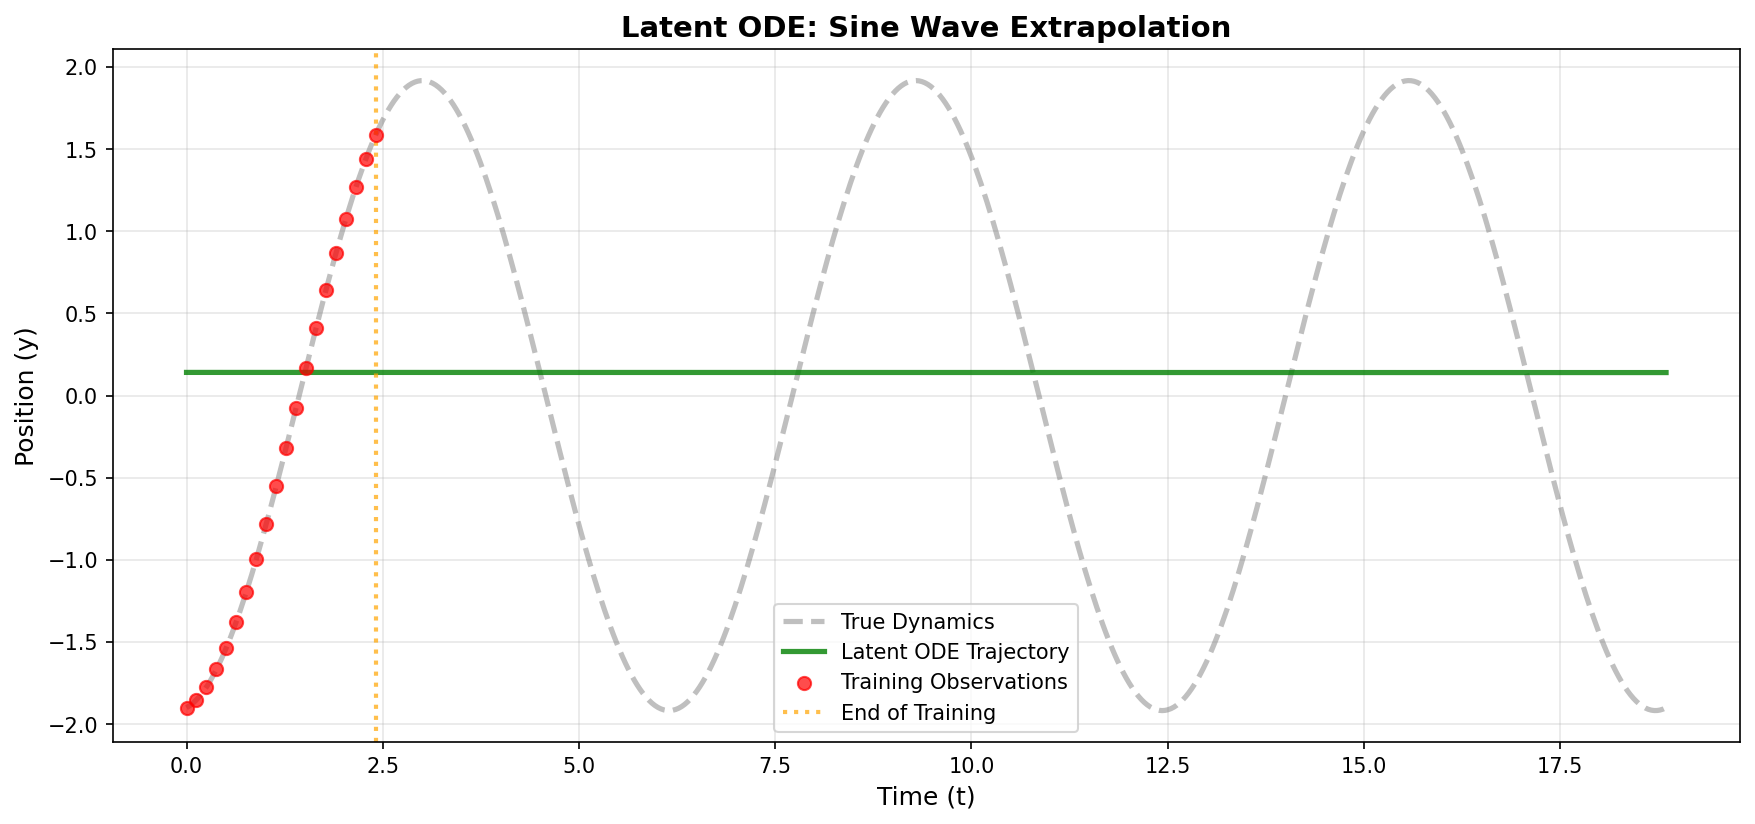
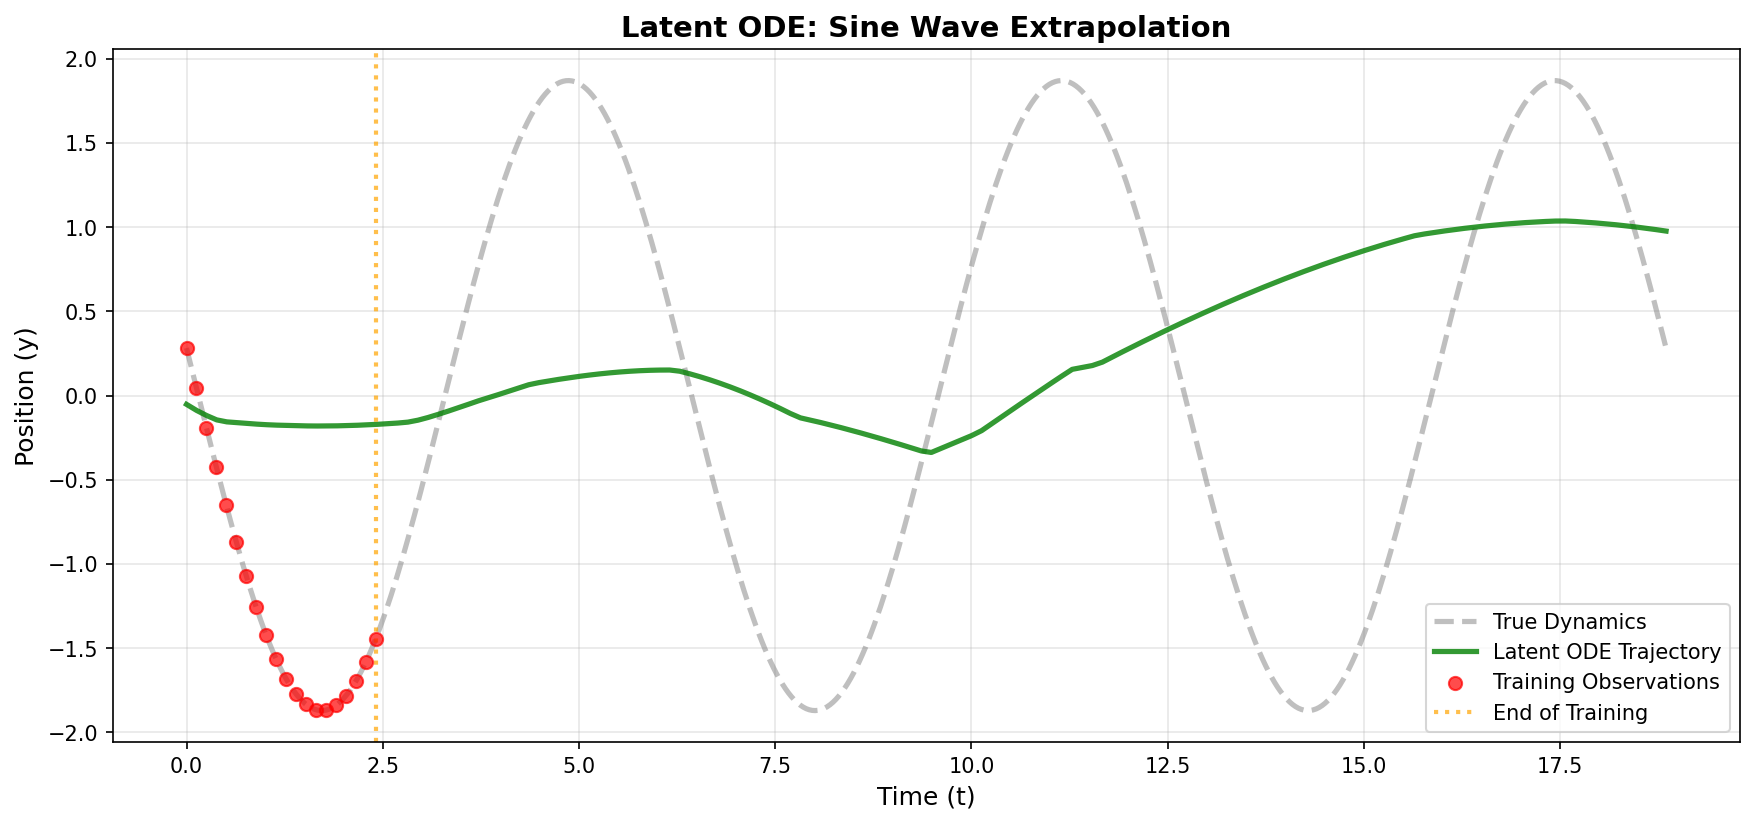
Generate spiral (cw + ccw)
Added the spiral generation from the Neural ODE paper and added inspection of latent state

diff --git a/dataset/data.py b/dataset/data.py
@@ -30,43 +30,20 @@ def generate_sine(true_func, batch_size=32, n_samples=100, t_max=4*np.pi, device
 
     return t, y0, trajectories
 
-def generate_irregular(true_func, n_samples=100, t_max=4*np.pi, noise_std=0.1, device="cpu"):
-    t = np.sort(np.random.rand(n_samples) * t_max)
-    t[0] = 0
-    t_tensor = torch.tensor(t, dtype=torch.float32).to(device)
-
-    #initial condition 
-
-    # Calculate position and velocity
-    y = np.sin(t)
-    v = np.cos(t)  # velocity = dy/dt
-
-    # Add noise to make it more "real"
-    y_noise = y + 0.1 * np.random.randn(n_samples)
-    v_noise = v + 0.1 * np.random.randn(n_samples)
-
-    # Stack into state: [position, velocity]
-    state = np.stack([y_noise, v_noise], axis=1)  # Shape: [n_samples, 2]
-
-    # Convert to tensors
-    t_tensor = torch.tensor(t).float()
-    state_tensor = torch.tensor(state).float()  # Shape: [n_samples, 2]
-
-    return t_tensor, state_tensor
-
 #True sprial dynamics
 class SpiralDynamics(nn.Module):
-    def __init__(self, device="cpu"):
+    def __init__(self, direction=1.0, device="cpu"):
         super(SpiralDynamics, self).__init__()
 
         #weight matrix for spiral
-        self.A = torch.tensor([[-0.1, -1.0], 
-                               [1.0, -0.1]], dtype=torch.float32, device=device)
+        self.A = torch.tensor([[-0.1, direction*-1.0], 
+                               [direction*1.0, -0.1]], dtype=torch.float32, device=device)
         
     def forward(self, t, y):
         return torch.mm(y, self.A.T)
 
-def generate_spiral(true_func, batch_size=32, n_samples=100, t_max=10, device="cpu"):
+def generate_spiral(batch_size=32, n_samples=100, t_max=10, noise_std=0.0, device="cpu"):
+    halb_batch = batch_size // 2
     #time
     t = torch.linspace(0, t_max, n_samples).to(device)
     
@@ -80,10 +57,37 @@ def generate_spiral(true_func, batch_size=32, n_samples=100, t_max=10, device="c
     
     #Solve ODE with true dynamics
     with torch.no_grad():
-        true_trajectories = odeint(true_func, y0, t, method='dopri5')
+        #Clockwise
+        true_func_cw = SpiralDynamics(direction=1.0, device=device)
+        y0_cw = y0[:halb_batch]
+        traj_cw = odeint(true_func_cw, y0_cw, t, method="dopri5")
         #Shape: [n_points, batch_size, 2]
-    
+
+        #Counter Clockwise
+        true_func_ccw = SpiralDynamics(direction=-1.0, device=device)
+        y0_ccw = y0[halb_batch:]
+        traj_ccw = odeint(true_func_ccw, y0_ccw, t, method="dopri5")
+
+        #Combine
+        true_trajectories = torch.cat([traj_cw, traj_ccw], dim=1)
+
+    #Add noise
+    if noise_std > 0:
+        true_trajectories += noise_std * torch.randn_like(true_trajectories)
+
     return t, y0, true_trajectories
+
+def generate_irregular(subsample_points, trajectories, n_samples, t, batch_size, device):
+    t = torch.zeros(subsample_points, dtype=torch.float32, device=device)
+    subsampled_traj = torch.zeros(subsample_points, batch_size, 2, dtype=torch.float32, device=device)
+    
+    for b in range(batch_size):
+        #random indicies, sort by time
+        idx = torch.randperm(n_samples)[:subsample_points].sort()[0]
+        subsampled_traj[:, b, :] = trajectories[idx, b, :]
+        t = t[idx]
+
+    return t, subsampled_traj 
 
 
 def plot_samples(t, y0, trajectories, title="True Sine Wave Dynamics", file_name="true_sine.png"):
@@ -197,6 +201,9 @@ if __name__ == '__main__':
     # t, y0, true_traj = generate_spiral(true_func, batch_size=8, n_samples=100)
     # plot_spiral(t, y0, true_traj, title="True Spiral Dynamics", file_name="true_spirals.png")
 
-    true_func = SineDynamics()
-    t, y0, true_traj = generate_sine(true_func, batch_size=16, n_samples=100)
-    plot_spiral(t, y0, true_traj, title="Sine Phase Space", file_name="true_sine_phase.png")
+    # true_func = SineDynamics()
+    # t, y0, true_traj = generate_sine(true_func, batch_size=16, n_samples=100)
+    # plot_spiral(t, y0, true_traj, title="Sine Phase Space", file_name="true_sine_phase.png")
+
+    t, y0, true_traj = generate_spiral(batch_size=4, n_samples=100, t_max=4*np.pi)
+    plot_spiral(t, y0, true_traj, title="Spiral Dynamics (CW + CCW)", file_name="true_spirals (cw + ccw).png")

diff --git a/extended_plots.py b/extended_plots.py
@@ -7,6 +7,7 @@ import torch
 import matplotlib.pyplot as plt
 import os
 import argparse
+import numpy as np
 
 def parse_args():
     parser = argparse.ArgumentParser("Ode Model Plotting")
@@ -80,6 +81,44 @@ def generate_sines(ode_model, future_vals, t, single_true, device, true_func, ls
 
     return
 
+@torch.no_grad()
+def inspect_encoder_latents(model, observed_data, observed_times, 
+                           n_samples=8, return_df=False, device=None):
+    if device is None:
+        device = next(model.parameters()).device
+    
+    model.eval()
+    observed_data = observed_data.to(device)
+    observed_times = observed_times.to(device)
+    
+    if observed_data.dim() == 2:
+        observed_data = observed_data.unsqueeze(0)   # add batch dim if needed
+    
+    batch_size = observed_data.shape[0]
+    idx = np.random.choice(batch_size, size=min(n_samples, batch_size), replace=False)
+    
+    print(f"\nInspecting encoder outputs for {len(idx)} random trajectories:\n")
+    print("   idx   |  z₀ mean                  |  z₀ std                   | sample z₀")
+    print("-" * 85)
+    
+    rows = []
+    
+    for i, sample_idx in enumerate(idx):
+        x = observed_data[sample_idx:sample_idx+1]      # [1, T, obs_dim]
+        t = observed_times                               # [T] or [1,T]
+        
+        z0_mean, z0_logvar = model.encode(x, t)
+        z0_std = torch.exp(0.5 * z0_logvar)
+        
+        # one sample from posterior
+        z0_sample = model.reparametrize(z0_mean, z0_logvar)
+        
+        mean_str = " ".join(f"{v:.4f}" for v in z0_mean[0].cpu().numpy())
+        std_str  = " ".join(f"{v:.4f}" for v in z0_std[0].cpu().numpy())
+        samp_str = " ".join(f"{v:.4f}" for v in z0_sample[0].cpu().numpy())
+        
+        print(f"{sample_idx:6d}   | {mean_str} | {std_str} | {samp_str}")
+
 
 if __name__ == '__main__':
     args = parse_args()
@@ -110,7 +149,9 @@ if __name__ == '__main__':
     lstm.load_state_dict(lstm_weights)
 
     #Load Latent ODE
-    latent_ode = LatentODE(latent_dim=2, obs_dim=2, encoder_hidden=25, ode_hidden=20, decoder_hidden=20).to(device)
+    latent_ode = LatentODE(latent_dim=1, obs_dim=2, encoder_hidden=25, ode_hidden=64, decoder_hidden=25).to(device)
+    latent_ode_weights = torch.load(".\\Results\\latent_ode (kl_weight-0.05_latent-1).pth", weights_only=True)
+    latent_ode.load_state_dict(latent_ode_weights)
 
     if args.sine:
         #single values
@@ -168,8 +209,21 @@ if __name__ == '__main__':
             predicted_full=predicted_full[:, 0, :],  # Extract first batch
             true_func=true_func,
             t_max=6*torch.pi,
-            file_name="latent_ode_extrapolation.png",
+            file_name="latent_ode_extrapolation (kl_weight-0.05_latent-1).png",
             device=device)
+
+        latent_ode.eval()
+        with torch.no_grad():
+            traj_batch = true_traj.permute(1, 0, 2)
+            predicted, _, _ = latent_ode(traj_batch, t, t)
+            
+            # Check reconstruction error
+            recon_error = torch.mean((predicted - true_traj) ** 2)
+            print(f"Reconstruction error: {recon_error.item():.6f}")
+
+        traj_batch = true_traj.permute(1, 0, 2)
+
+        inspect_encoder_latents(latent_ode, traj_batch, t, n_samples=10)
 
        
 

diff --git a/models/latent_ode.py b/models/latent_ode.py
@@ -5,6 +5,7 @@ import matplotlib.pyplot as plt
 from torchdiffeq import odeint_adjoint as odeint
 import os
 from models.neural_ode import ODEFunc
+from dataset.data import SpiralDynamics, generate_spiral
 
 #Encoder
 #This is a backwards RNN - it process the observations in reverse order to product an initial
@@ -160,7 +161,7 @@ def train_latent_ode(model, trajs, t, epochs=200, lr=0.001, kl_weight_start=0, k
 
         #backward pass
         total_loss.backward()
-        torch.nn.utils.clip_grad_norm_(model.parameters(), max_norm=1.0)
+        #torch.nn.utils.clip_grad_norm_(model.parameters(), max_norm=1.0)
         optimizer.step()
 
         #Record losses 
@@ -291,13 +292,11 @@ def plot_latent_ode_extrapolation(t_train, state_train, t_full, predicted_full, 
 
 
 if __name__ == "__main__":
-    from dataset.data import SineDynamics, generate_sine
-
     device = torch.device("cuda" if torch.cuda.is_available() else "cpu")
 
     #Generate data
-    true_func = SineDynamics(device=device).to(device)
-    t, y0, trajs = generate_sine(true_func, batch_size=16, n_samples=100, t_max=4*torch.pi, device=device)
+    true_func = SpiralDynamics(device=device).to(device)
+    t, y0, trajs = generate_spiral(batch_size=16, n_samples=100, t_max=4*torch.pi, device=device)
     t = t.to(device)
     y0 = y0.to(device)
     trajs = trajs.to(device)
@@ -307,12 +306,12 @@ if __name__ == "__main__":
                       obs_dim=2, 
                       encoder_hidden=25, 
                       ode_hidden=64,
-                      decoder_hidden=20).to(device)
+                      decoder_hidden=25).to(device)
     
     #Train
     print("\nTraining Latent ODE...")
-    losses = train_latent_ode(model, trajs, t, epochs=500, kl_weight_start=0, kl_weight_end=1, device=device)
-    plot_loss(losses)
+    losses = train_latent_ode(model, trajs, t, epochs=500, kl_weight_start=0, kl_weight_end=0.01, device=device, file_name="latent_ode_spiral.pth")
+    plot_loss(losses, file_name="Latent ODE Losses (spiral).png")
 
 
 
